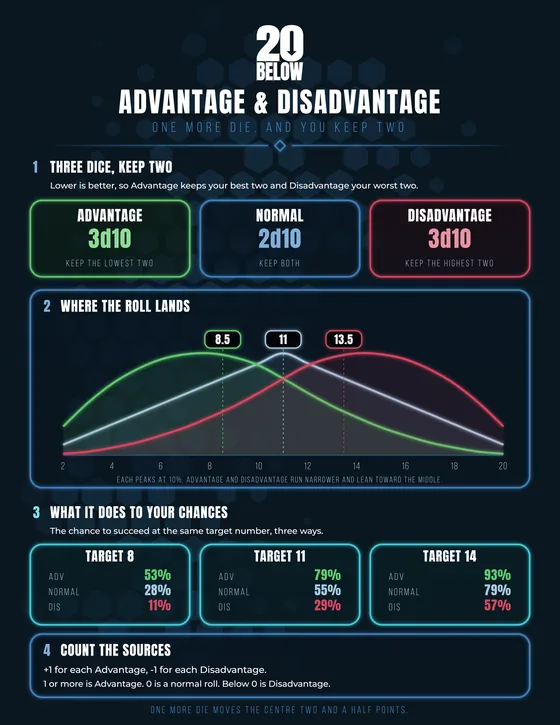
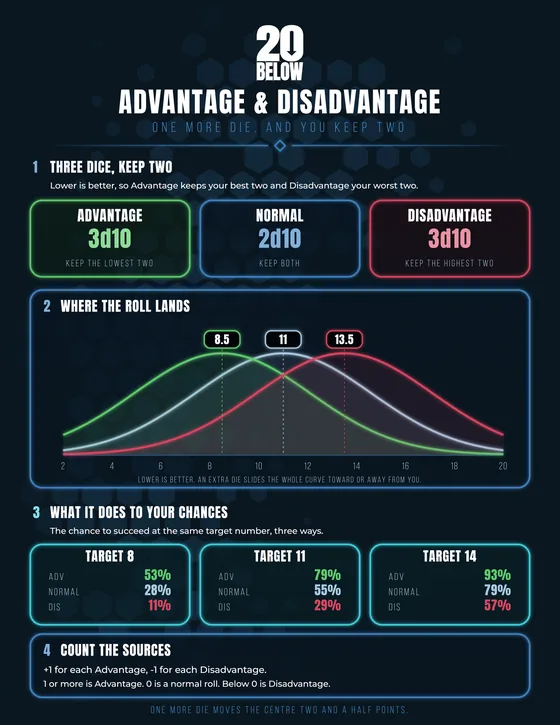
Portfolio: bell curves on the Advantage sheet, readability first
The finished sheet uses the same simplified curves as the book, slid to
8.5, 11 and 13.5; the exact figures stay in the success chances.

Changed region(s): [[0.0911, 0.4552, 0.9107, 0.6676]]

diff --git a/docs/visual-portfolio.html b/docs/visual-portfolio.html
@@ -163,7 +163,7 @@
 
   <h3>Advantage &amp; Disadvantage</h3>
   <div class="prose">
-    <p>This one took three steps, because the first honest answer wasn't the clearest one. The exact odds, computed from every possible roll, come out as two charts and 114 values, and they're true: Advantage and Disadvantage don't just slide the curve, they narrow it and tip it to one side. But as a visual presentation, the full data set isn't always clear to the average reader, and what a player needs from it is one idea: an extra die moves your odds about two and a half points. So the book's version draws that idea and nothing else, keeping the centres exact and letting the shapes simplify. The finished sheet keeps that clarity, puts the true shapes back, and adds the numbers a player actually uses at the table: the chance to succeed.</p>
+    <p>This one took three steps, because the first honest answer wasn't the clearest one. The exact odds, computed from every possible roll, come out as two charts and 114 values, and they're true: Advantage and Disadvantage don't just slide the curve, they narrow it and tip it to one side. But as a visual presentation, the full data set isn't always clear to the average reader, and what a player needs from it is one idea: an extra die moves your odds about two and a half points. So the book's version draws that idea and nothing else, keeping the centres exact and letting the shapes simplify. The finished sheet keeps those same simple curves, on purpose: visual information has to be easy to read first, and it doesn't have to carry every decimal to be right about what matters. The exact numbers still come through where a player uses them, as the chance to succeed.</p>
   </div>
   <div class="compare three">
     <figure>
@@ -180,8 +180,8 @@
     <div class="compare-arrow" aria-hidden="true">&rarr;</div>
     <figure>
       <div class="stage">3 &middot; The finished piece</div>
-      <a href="/docs/assets/portfolio/advantage-disadvantage.webp" data-title="Advantage &amp; Disadvantage"><img src="/docs/assets/portfolio/advantage-disadvantage-thumb.webp" alt="The Advantage and Disadvantage reference sheet: three panels showing Advantage as 3d10 keep the lowest two, a normal 2d10, and Disadvantage as 3d10 keep the highest two; glowing curves of the true odds centred at 8.5, 11 and 13.5; the chance to succeed at targets 8, 11 and 14 each way; and the rule for counting sources." loading="lazy" width="560" height="725" /></a>
-      <figcaption>A letter-size reference sheet at 600 dpi: the true shapes, the success chances, and how to count your sources.</figcaption>
+      <a href="/docs/assets/portfolio/advantage-disadvantage.webp" data-title="Advantage &amp; Disadvantage"><img src="/docs/assets/portfolio/advantage-disadvantage-thumb.webp" alt="The Advantage and Disadvantage reference sheet: three panels showing Advantage as 3d10 keep the lowest two, a normal 2d10, and Disadvantage as 3d10 keep the highest two; glowing bell curves centred at 8.5, 11 and 13.5; the chance to succeed at targets 8, 11 and 14 each way; and the rule for counting sources." loading="lazy" width="560" height="725" /></a>
+      <figcaption>A letter-size reference sheet at 600 dpi: the same readable curves, the exact success chances, and how to count your sources.</figcaption>
     </figure>
   </div>
 
